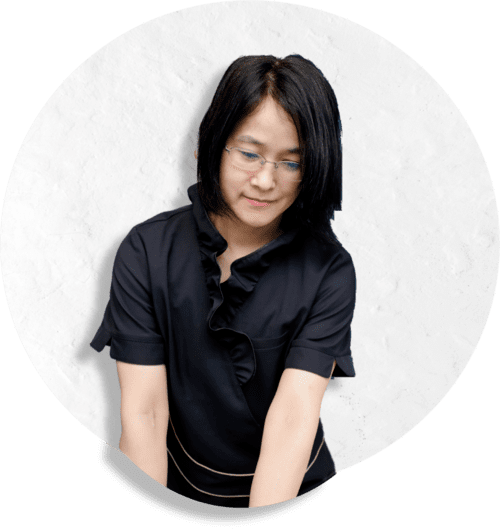
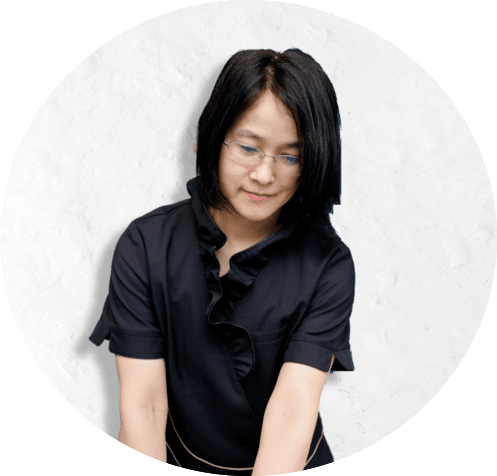
マッサージ３の画像をデスクトップとスマホで使い分けました！

diff --git a/index.html b/index.html
@@ -92,9 +92,9 @@
               <div class="c-firstView__container">
                 <div class="c-firstView__inner">
                   <h2 class="c-firstView__page_ttl" data-target="browserChecker">Massage store</h2>
-                  <h3 class="c-firstView__page_hdg" data-target="browserChecker">あなただけの贅沢空間<br>高級アロママッサージ</h3>
-                  <div class="c-firstView__page_sub_hdg" data-target="browserChecker">精油の香る隠れ家の様なお店で<br
-                      class="is-sp">充実したひとときを。</div>
+                  <h3 class="c-firstView__page_hdg" data-target="browserChecker">あなただけの贅沢空間で<br>高級アロママッサージを</h3>
+                  <div class="c-firstView__page_sub_hdg" data-target="browserChecker">精油香る隠れ家の様なお店<br
+                      class="is-sp"></div>
                   <p class="c-firstView__page_hdg__desc add-line" data-target="browserChecker">
                     <span>営業時間：<br class="is-sp"><span class="is-strong"></span><span
                         class="is-strong">月・水・金・日</span><span class="is-strong">【10:00am〜18:00pm】</span></span></p>

diff --git a/assets/styles/app.css b/assets/styles/app.css
@@ -975,9 +975,9 @@ img[src$='.svg'] {
 
 @media screen and (max-width:768px) {
     .c-firstView__page_hdg {
-        font-size: 8vw;
+        font-size: 7.4vw;
         letter-spacing: .05em;
-        line-height: 1.3
+        line-height: 1.3;
     }
 }
 
@@ -1065,7 +1065,7 @@ img[src$='.svg'] {
 
 @media screen and (min-width:769px) {
     .c-firstView__page_hdg__desc {
-        font-size: 2.3vw;
+        font-size: 1.8vw;
         letter-spacing: .05em;
         line-height: 1.777777777777778;
     }
@@ -5585,7 +5585,7 @@ spna{
     content: "";
     width: 100vw;
     height: 56vh;
-    background: url(../images/cp/top-mass3.jpg) no-repeat top -325px center/cover;
+    background: url(../images/mass1.jpg) no-repeat top -325px center/cover;
 }
 .border{
     width: 100%;
@@ -6090,7 +6090,11 @@ betu{
         margin-bottom: 2vw;
     }
     .mass3 {
+        margin-top: 14vw;
+        content: "";
+        width: 100vw;
         height: 75vh;
+        background: url(../images/cp/top-mass3.jpg) no-repeat top -44px center/contain;
     }
     .flow1 {
         height: 23vw;
